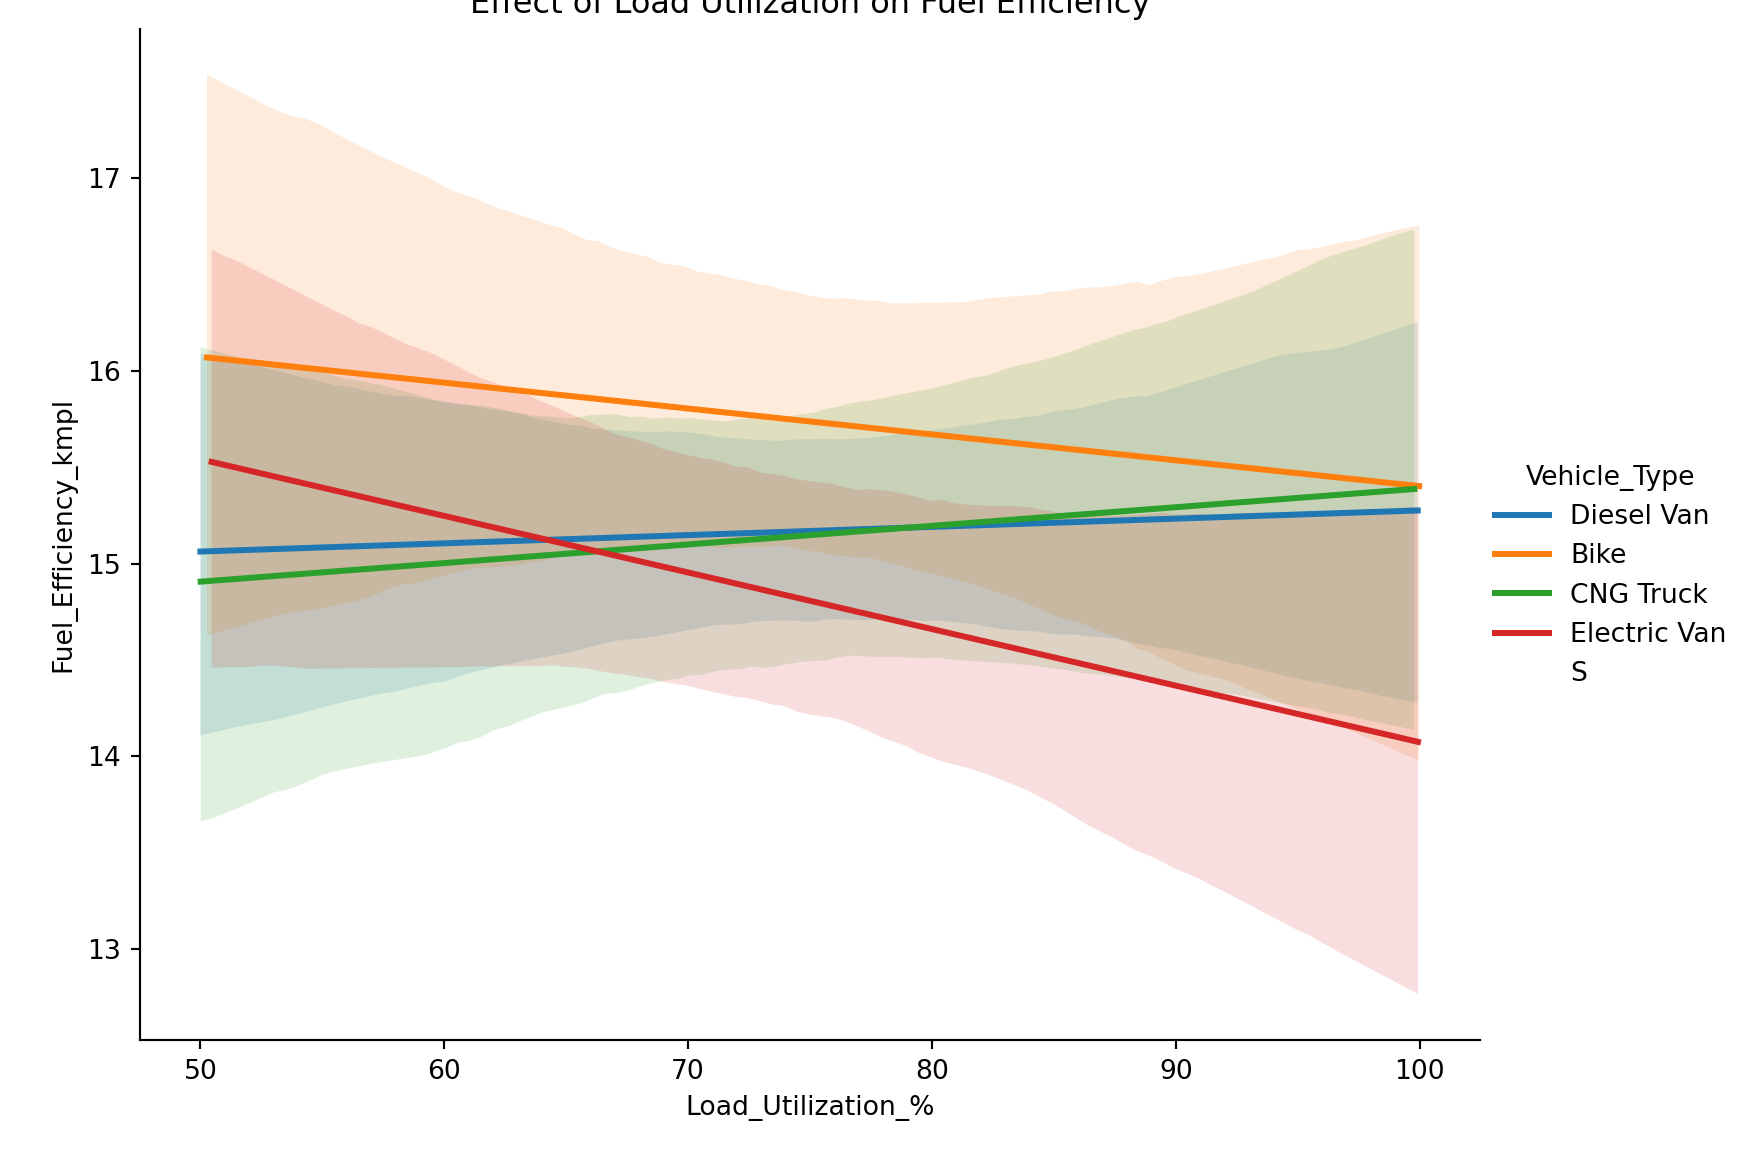
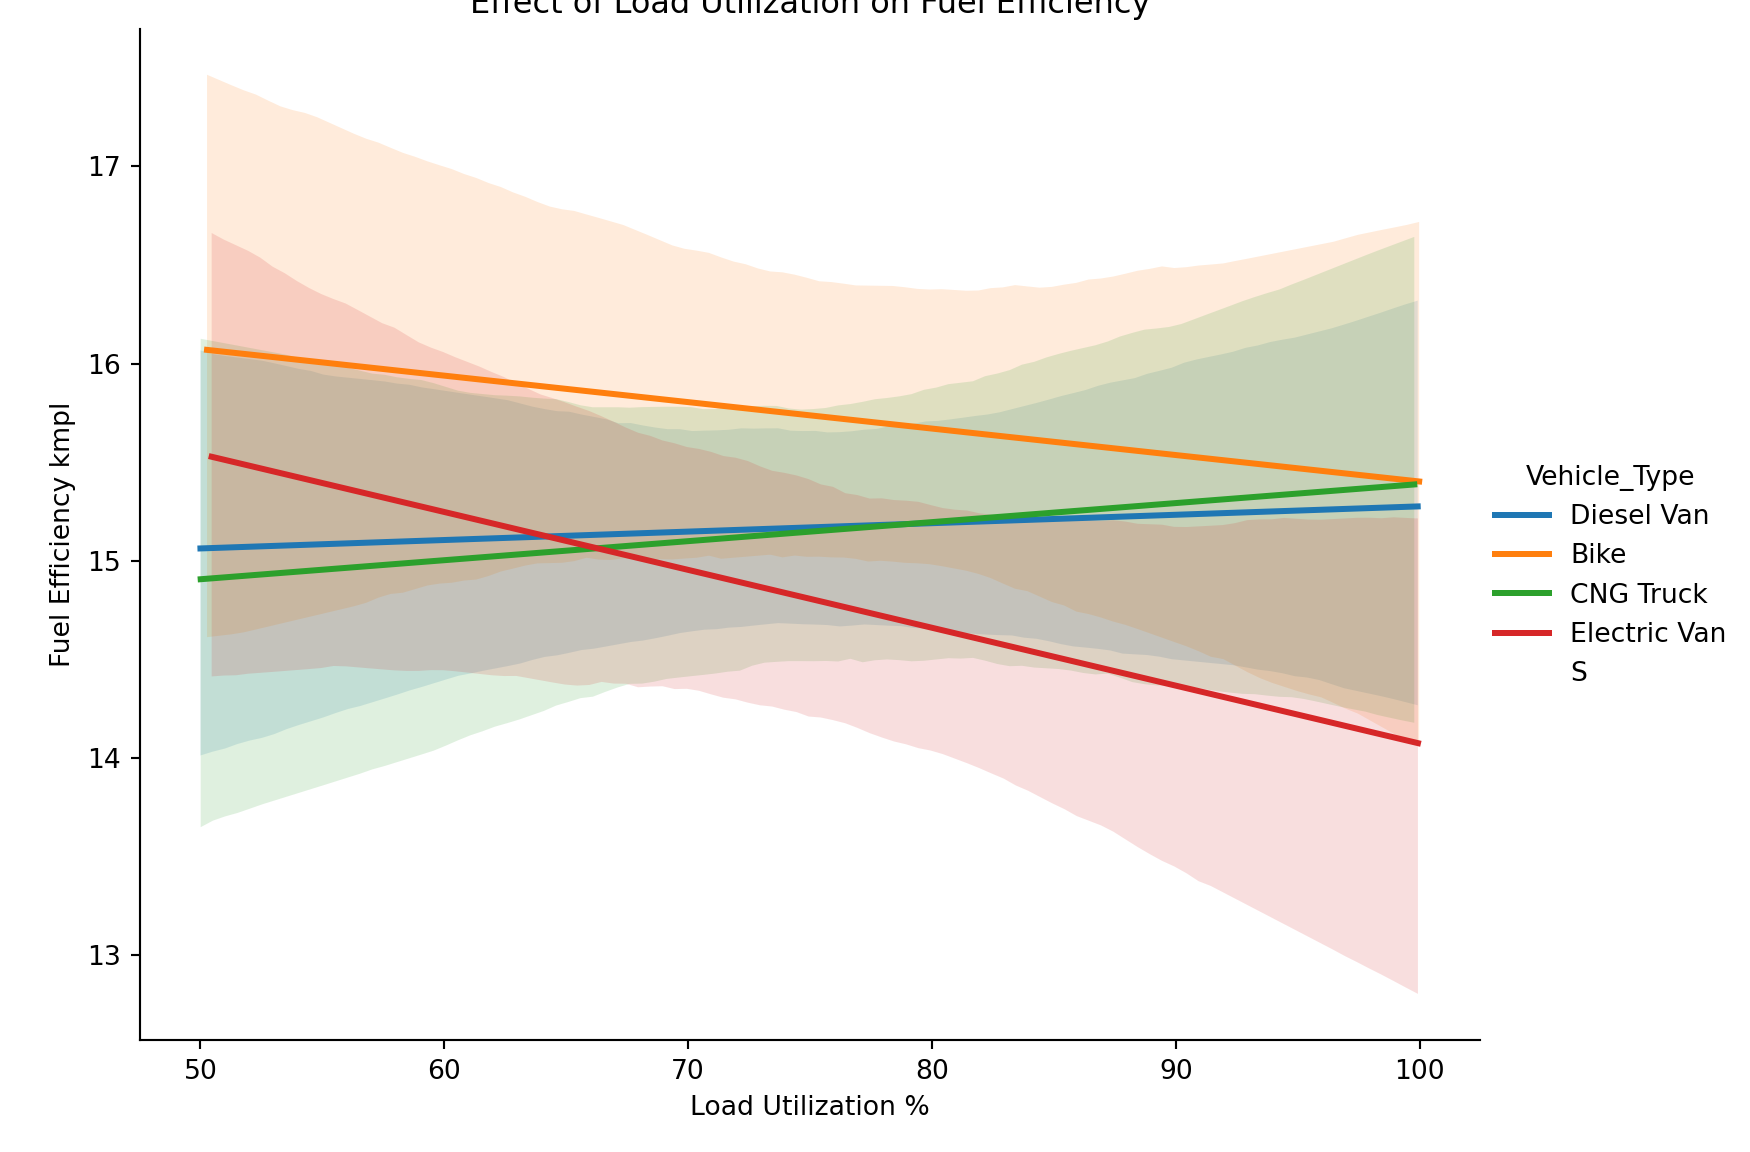
added tables into project 1

diff --git a/docs/project_1.html b/docs/project_1.html
@@ -336,6 +336,7 @@ achieve here. We can see that for Electric vehicles and Bikes the fuel
 efficiency decreases steadily as the load utilization increases, whereas
 for CNG Trucks and Diesel Vans it increases. This is key information
 that will factor into my conclusion.</p>
+</div>
 <p><img src="project_1_files/figure-html/unnamed-chunk-4-1.png" width="875" /></p>
 </div>
 <div id="data-handling-descriptive-analysis" class="section level2">
@@ -344,15 +345,43 @@ that will factor into my conclusion.</p>
 my calculations, my next step is to handle the data and create an
 average fuel efficiency per vehicle and delivery type, and see how this
 compares to the averages of the type combinations.</p>
-<pre class="python"><code># Handling columns
+<pre class="python"><code>
+# Handling columns
 data_import[&quot;CO2_Emissions_kg&quot;] = (data_import[&quot;CO2_Emissions_g&quot;] / 1000).round(2)
 data_import = data_import[data_import[&quot;Vehicle_Type&quot;] != &quot;S&quot;]
 
 # Creating an average fuel efficiency per litre for each vehicle type
-data_import.groupby(&quot;Vehicle_Type&quot;)[&quot;Fuel_Efficiency_kmpl&quot;].mean()</code></pre>
-<pre class="python"><code>data_import.groupby(&quot;Delivery_Type&quot;)[&quot;Fuel_Efficiency_kmpl&quot;].mean()</code></pre>
+average_tables = {}
+
+for col in columns_to_check:
+  average_tables[col] = data_import.groupby(col)[&quot;Fuel_Efficiency_kmpl&quot;].mean().to_frame(name=&quot;Average&quot;)</code></pre>
+<div style="display:flex; gap:20px;">
+<div style="flex:1;">
+<pre><code>##                 Average
+## Vehicle_Type           
+## Bike          15.732069
+## CNG Truck     15.134452
+## Diesel Van    15.172057
+## Electric Van  14.837692</code></pre>
+</div>
+<div style="flex:1;">
+<pre><code>##               Average
+## Route_Type           
+## Highway     15.511071
+## Rural       15.255016
+## Suburban    15.411147
+## Urban       14.862145</code></pre>
+</div>
+<div style="flex:1;">
+<pre><code>##                  Average
+## Delivery_Type           
+## Express        15.223813
+## Same-day       14.928797
+## Standard       15.234526</code></pre>
+</div>
+</div>
 <p>I created a function that calculated the averages for each
-combination of delivery and vehicle type for the other key metrics in
+combination of delivery and vehicle types for the other key metrics in
 the data.</p>
 <pre class="python"><code># Creating function
 def matrix_function(value_column):
@@ -386,6 +415,32 @@ combined_matrix</code></pre>
 ## Fuel_kmpl_Express   15.17      14.94       15.44         15.18
 ## Fuel_kmpl_Same-day  16.07      14.67       14.86         14.57
 ## Fuel_kmpl_Standard  15.97      15.42       15.15         14.70</code></pre>
+</div>
+<p>Now we can clearly see how the averages of the combinations stack up
+against the average for the whole variable, this shows us which
+combinations are preforming below average and could do with
+reorganising.</p>
+</div>
+</div>
+<div id="conclusion" class="section level1">
+<h1>Conclusion</h1>
+<div id="co2-kg" class="section level2">
+<h2>CO2 kg:</h2>
+<ul>
+<li>Same day delivery for diesel vans produces &gt;2kg of fuel per
+delivery on average, compared to electric vans which has a lower average
+fuel cost. So moving some of the same day deliveries over from diesel to
+electric will lower the CO2 emissions without compromising
+deliveries.</li>
+</ul>
+</div>
+<div id="load-utilisation" class="section level2">
+<h2>Load Utilisation:</h2>
+<ul>
+<li>Diesel vans and electric vans both have a steady decline in their
+fuel efficiency as load utilisation increases, with electric vehicles
+seeing a bigger drop</li>
+</ul>
 </div>
 </div>
 

diff --git a/docs/python_script.py b/docs/python_script.py
@@ -1,6 +1,6 @@
 
 ### What factors drive customer purchasing behaviour, and how can a business increase conversions?
-
+# rmarkdown::render_site()
 # Importing the data
 
 import pandas as pd
@@ -66,6 +66,8 @@ sns_load_util = sns.lmplot(
   scatter = False 
   )
 plt.title("Effect of Load Utilization on Fuel Efficiency")
+plt.xlabel("Load Utilization %")
+plt.ylabel("Fuel Efficiency kmpl")
 plt.show()
   
   

diff --git a/python_script.py b/python_script.py
@@ -66,6 +66,8 @@ sns_load_util = sns.lmplot(
   scatter = False 
   )
 plt.title("Effect of Load Utilization on Fuel Efficiency")
+plt.xlabel("Load Utilization %")
+plt.ylabel("Fuel Efficiency kmpl")
 plt.show()
   
   
